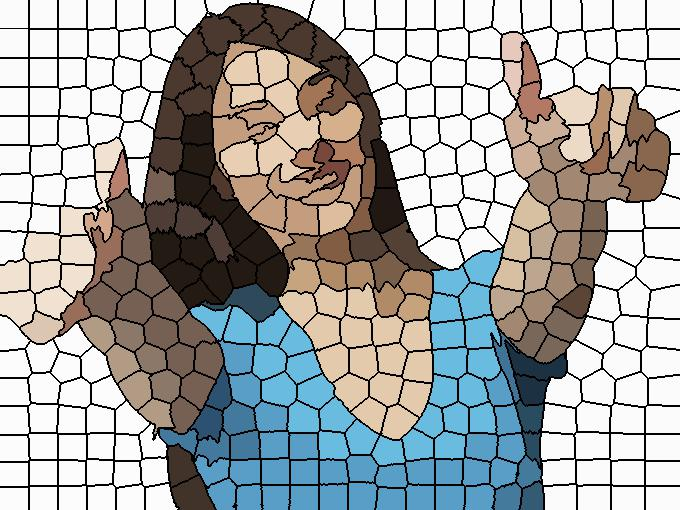
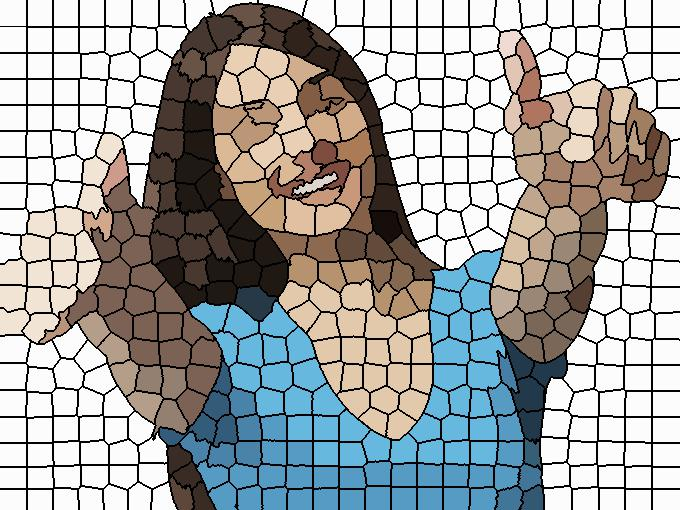
Update folder

diff --git a/RagEffect/rag.py b/RagEffect/rag.py
@@ -25,7 +25,7 @@ def merge_mean_color(graph, src, dst):
 
 img = io.imread('persona.jpg')
 
-labels = segmentation.slic(img, compactness=30, n_segments=400)  
+labels = segmentation.slic(img, compactness=30, n_segments=500)  
 g = graph.rag_mean_color(img, labels) 
 labels2 = graph.merge_hierarchical(labels, g, thresh=35, rag_copy=False,
                                    in_place_merge=True,
